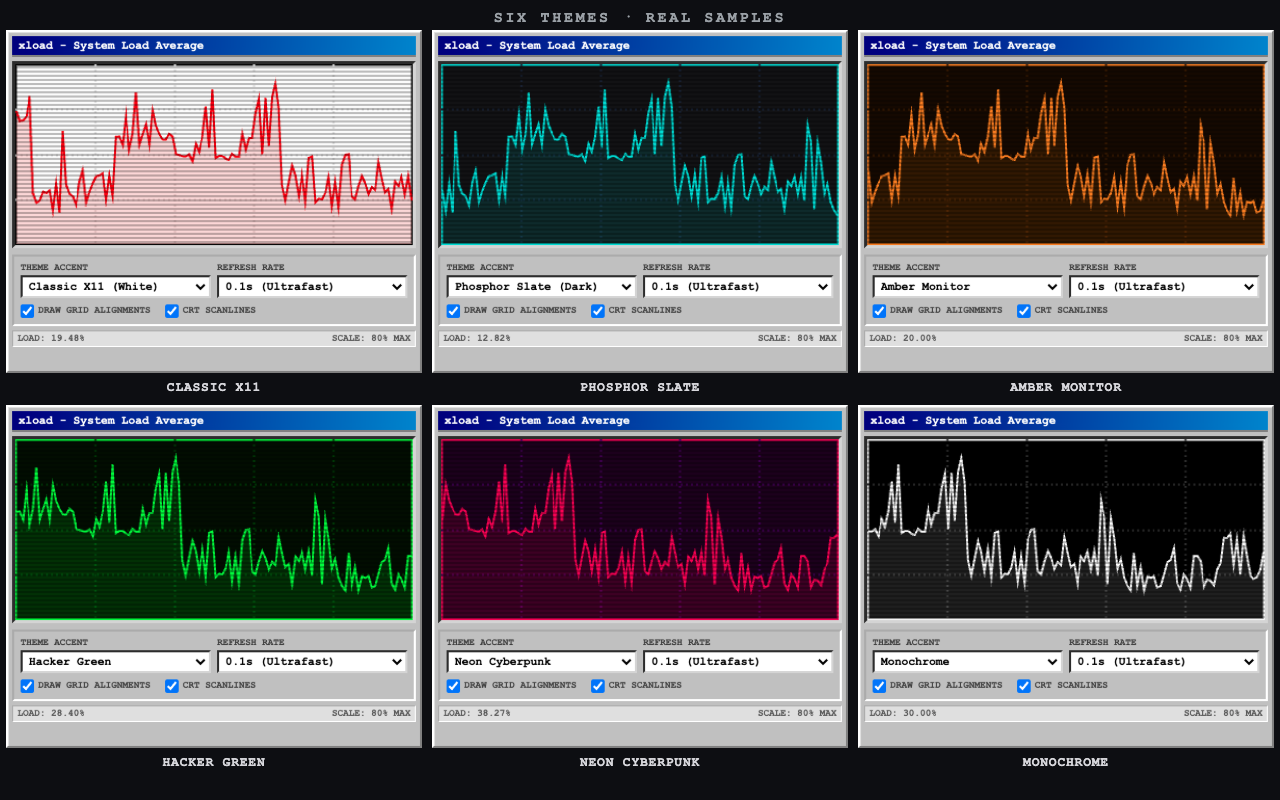
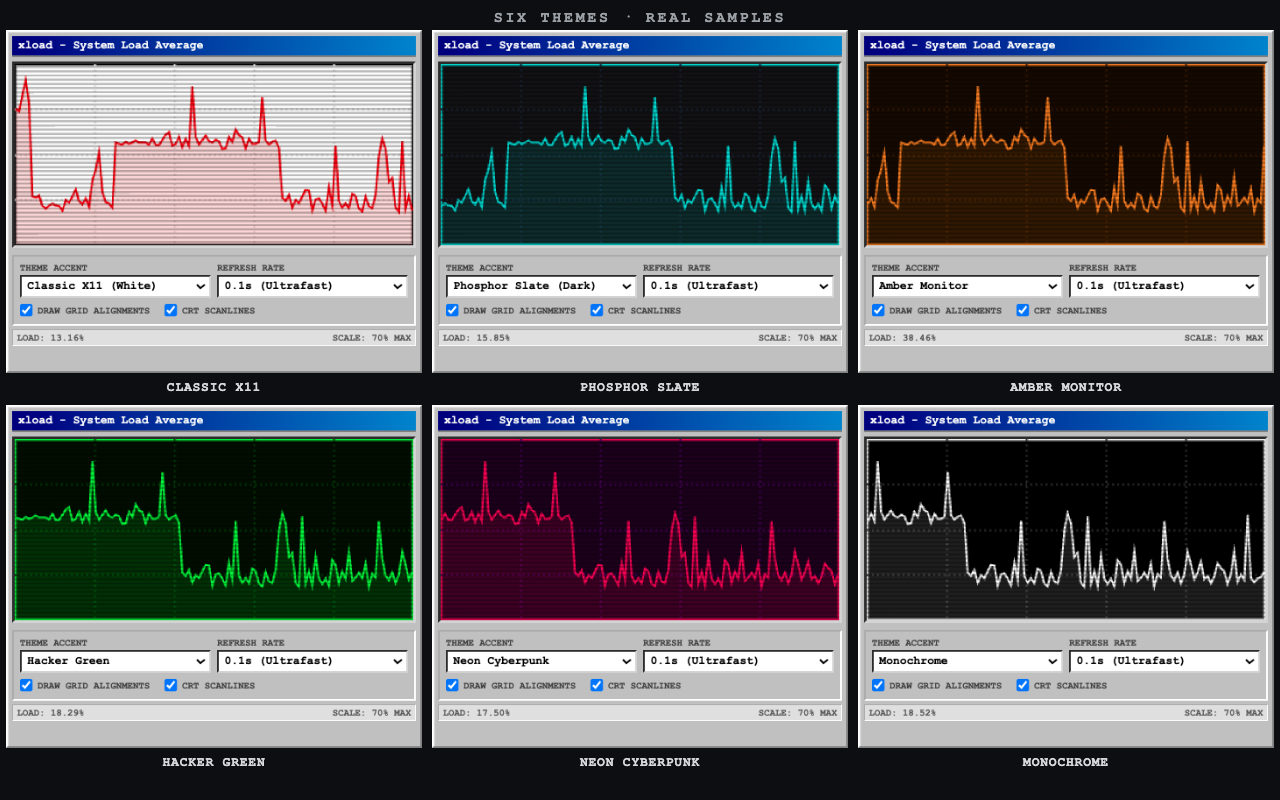
Fill the frame with the popup in the store screenshots
Re-capture the five assets with the popup height-filled so LOAD and SCALE stay legible at thumbnail size; samples, no-shadow and 1280x800 framing otherwise unchanged.

diff --git a/store/gallery.html b/store/gallery.html
@@ -19,7 +19,9 @@
 <body>
 <header>
   <h1>xload — store screenshots</h1>
-  <p>1280×800, captured from the unpacked extension with real CPU samples. Click a caption to open full size.</p>
+  <p>1280×800, captured from the unpacked extension with real CPU samples. The popup is height-filled
+     (74% × 98% of the frame) so <code>LOAD</code> and <code>SCALE</code> survive thumbnail downscaling.
+     Click a caption to open full size.</p>
 </header>
 <main>
   <figure>

diff --git a/STORE-LISTING.md b/STORE-LISTING.md
@@ -151,12 +151,16 @@ up to five; **1280×800** (640×400 accepted); PNG or JPEG; **square corners, fu
 padding, no rounded corners, no drop shadow**; upright and undistorted; must show the real
 popup from the current version, not a mockup.
 
-The popup is 400×330, so it cannot fill a 1280×800 frame at native size, and upscaling it
-3× turns 16px Courier to mush. These were captured from the unpacked extension at a 2×
-device pixel ratio inside a 640×400 viewport — 800×660 of crisp popup pixels on a plain
-neutral backdrop in a 1280×800 frame — while real `yes` processes produced the load. The
-popup's outer drop shadow is neutralised for the captures (its inset bevel is untouched),
-so nothing in frame casts a shadow.
+The popup is 400×330 (1.212:1), so in a 1.6:1 frame it is height-limited: filling the frame
+vertically gives 950×784 of popup — 74% of the width and 98% of the height — which is the
+largest the popup can be without cropping or distortion. These were captured that way: the
+unpacked extension at a 2× device pixel ratio inside a 640×400 viewport, with the popup
+scaled by CSS `zoom: 1.1875` so it fills the frame height (text rasterises at that size, so
+it stays sharp; the canvas scales through the existing `image-rendering: pixelated`).
+Filling the frame this way is what keeps `LOAD:` and `SCALE:` legible at thumbnail size —
+at the earlier 62%-width framing the 9px status line turned to mush when downscaled. Real
+`yes` processes produced the load, and the popup's outer drop shadow is neutralised (its
+inset bevel is untouched), so nothing in frame casts a shadow.
 
 ### Screenshots produced (`store/`)
 
